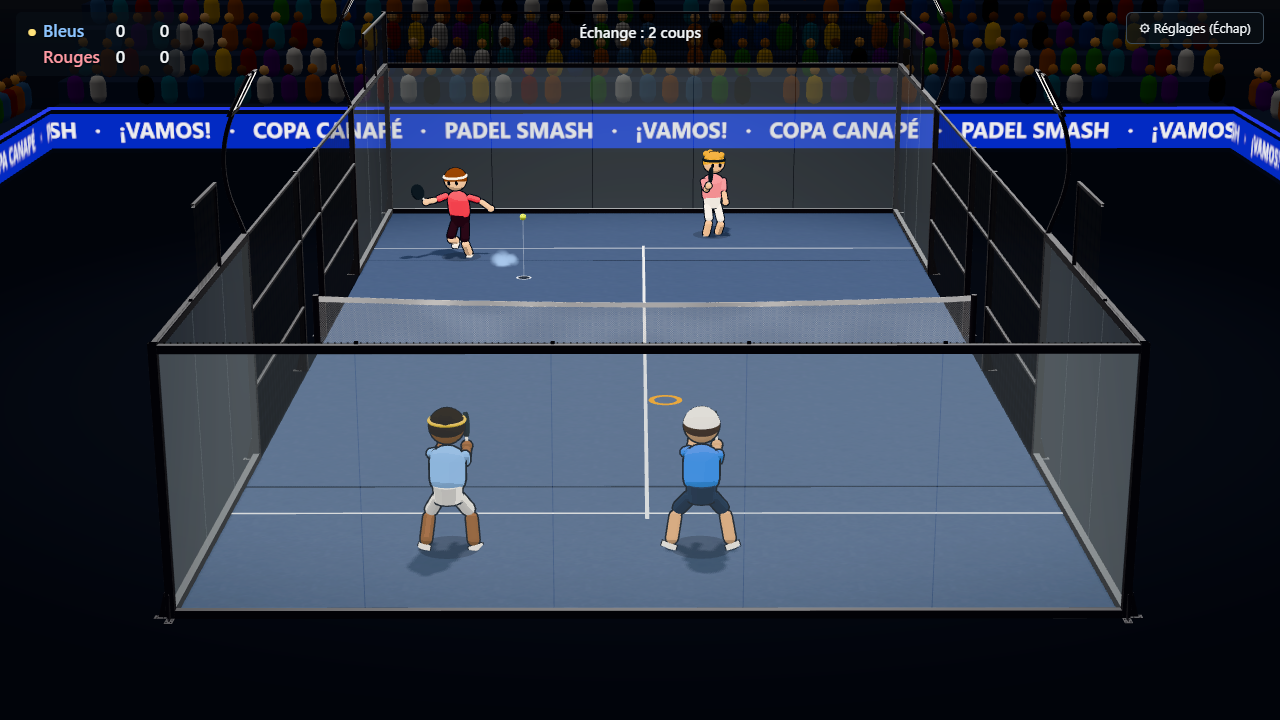
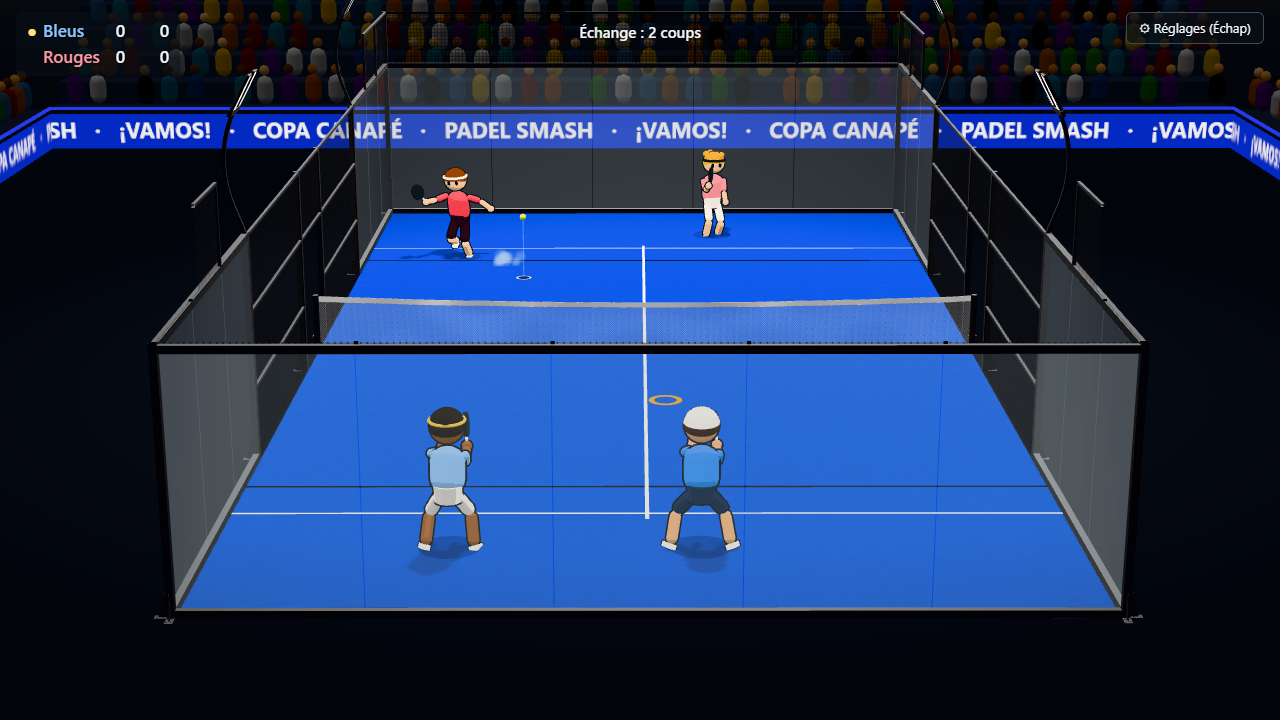
Tapis bleu façon Premier Padel : moquette bleu vif veloutée, grain de près, lignes blanches éclairées
- Étape V3 du plan de polish visuel (research/rendu/POLISH_VISUEL.md), d'après la surface officielle
  (Mondo Premier Supercourt X3) et une capture TV de Premier Padel.
- Le sol devient un matériau physique bleu vif : velours (sheen) plus clair vu de biais, grain de la
  texture du modèle gardé en clarté seule, grains de silice de près, presque pas de reflet spéculaire.
- Lignes en matière éclairée blanche, qui reçoivent les ombres sans en porter.
- ?gazon=0 garde le sol de V2.

Changed region(s): [[0.125, 0.275, 0.875, 0.8556]]

diff --git a/src/render/turf.ts b/src/render/turf.ts
@@ -1,0 +1,87 @@
+import * as THREE from 'three';
+
+/**
+ * Matière du terrain en rendu soigné (`research/rendu/POLISH_VISUEL.md`, étape V3), d'après la surface officielle
+ * de Premier Padel (Premier Supercourt X3 de Mondo) : fibres texturées, peu de sable visible, d'où l'aspect d'une
+ * moquette veloutée d'un bleu vif et uniforme, un peu plus claire vue de biais (le fond du terrain à la télé).
+ * - couleur : le bleu vif du circuit, le grain de la texture du modèle ne gardant que ses nuances de clarté ;
+ * - velours : le « sheen » des matériaux physiques, fait pour les tissus, éclaircit les fibres en vue rasante.
+ */
+
+/** Bleu du tapis (albédo). [à calibrer] */
+const CARPET_COLOR = 0x00349c;
+/** Part du grain de la texture gardée (0 = uni, 1 = tel quel) : de près, les fibres ; de loin, un bleu uni. */
+const GRAIN = 1.1;
+/** Clarté moyenne (linéaire) de la texture du modèle (`ground_dif.jpg`, moyenne sRGB 49, 70, 103). */
+const TEXTURE_LUMINANCE = 0.06;
+/** Velours : reflet clair des fibres vues de biais. [à calibrer] */
+const SHEEN = 0.7;
+const SHEEN_COLOR = 0x1a66ff;
+const SHEEN_ROUGHNESS = 0.55;
+/** Reflet spéculaire (vernis) : presque rien sur un tissu, sinon un voile blanc grise le bleu en vue rasante. */
+const SPECULAR = 0.15;
+/**
+ * Grains de silice : de près, de petits points clairs entre les fibres (photos de courts) ; ils naissent des grains
+ * les plus clairs de la texture, donc s'effacent avec ses mipmaps au loin, sans scintiller.
+ */
+const SAND_SPECK = 0.45;
+const SAND_COLOR = new THREE.Color(0xd8dde6);
+/** Lignes : bandes de gazon blanc, nettes. */
+const LINE_COLOR = 0xf7f8fb;
+
+/** `?gazon=0` garde le sol de V2, pour comparer. */
+export function turfEnabled(): boolean {
+  return new URLSearchParams(location.search).get('gazon') !== '0';
+}
+
+/** Le tapis : remplace le matériau du sol (formes simples ou modèle), en gardant sa texture pour le grain. */
+function carpet(from: THREE.Material): THREE.MeshPhysicalMaterial {
+  const map = 'map' in from && from.map instanceof THREE.Texture ? from.map : null;
+  const material = new THREE.MeshPhysicalMaterial({
+    name: 'tapis',
+    color: CARPET_COLOR,
+    map,
+    roughness: 0.95,
+    metalness: 0,
+    sheen: SHEEN,
+    sheenColor: SHEEN_COLOR,
+    sheenRoughness: SHEEN_ROUGHNESS,
+    specularIntensity: SPECULAR,
+  });
+  if (map) {
+    // La texture du modèle est d'un bleu marine terne : on n'en garde que la clarté relative (le grain), adoucie.
+    material.onBeforeCompile = (shader) => {
+      shader.uniforms.sandColor = { value: SAND_COLOR };
+      shader.fragmentShader = shader.fragmentShader.replace('#include <common>', '#include <common>\nuniform vec3 sandColor;').replace(
+        '#include <map_fragment>',
+        `#ifdef USE_MAP
+          vec4 carpetTexel = texture2D(map, vMapUv);
+          float carpetGrain = dot(carpetTexel.rgb, vec3(0.2126, 0.7152, 0.0722)) / ${TEXTURE_LUMINANCE.toFixed(3)};
+          diffuseColor.rgb *= mix(1.0, carpetGrain, ${GRAIN.toFixed(2)});
+          diffuseColor.rgb = mix(diffuseColor.rgb, sandColor, smoothstep(1.2, 1.6, carpetGrain) * ${SAND_SPECK.toFixed(2)});
+        #endif`,
+      );
+    };
+    material.customProgramCacheKey = () => 'tapis';
+  }
+  return material;
+}
+
+const lineMaterial = new THREE.MeshStandardMaterial({ name: 'ligne', color: LINE_COLOR, roughness: 0.8 });
+
+/**
+ * Habille le terrain (formes simples ou modèle chargé) : le sol (`sol` du modèle, `gazon` des formes) devient le
+ * tapis ; les lignes (`ligne`) passent en matière éclairée, qui reçoit les ombres sans en porter.
+ */
+export function dressCourt(court: THREE.Object3D): void {
+  court.traverse((node) => {
+    if (!(node instanceof THREE.Mesh)) return;
+    if (node.name === 'ligne') {
+      node.material = lineMaterial;
+      node.userData.flat = true;
+      return;
+    }
+    const material = node.material as THREE.Material;
+    if (material.name === 'sol' || (node.name === 'gazon' && material.name !== 'tapis')) node.material = carpet(material);
+  });
+}

diff --git a/src/render/duelScene.ts b/src/render/duelScene.ts
@@ -11,6 +11,7 @@ import { stepCrowdReactions } from '../audio/recipes';
 import { CHARACTERS, createCharacter, type CharacterRig } from './character';
 import { applyLook, enableShadows, exactColor, renderLook, setShadows } from './look';
 import { loadModel, modelsEnabled } from './models';
+import { dressCourt, turfEnabled } from './turf';
 import type { RenderInfo } from '../ui/perfMeter';
 import { bodyYawTarget, computePose, lowFamily, overheadFamily, plansHighShot, STRIDE, swingSide, type SwingFamily } from './pose';
 
@@ -336,6 +337,9 @@ export function createDuelView(canvas: HTMLCanvasElement, duel: Duel): DuelView 
 
   const court = createCourt();
   scene.add(court.object);
+  // Rendu soigné : tapis bleu façon Premier Padel, lignes blanches (avant le découpage de la vitre proche, qui touche aux matériaux).
+  const turf = soigne && turfEnabled();
+  if (turf) dressCourt(court.object);
   clipNearWall(court.object);
   if (shadows) setShadows(court.object, true);
   const ball = createBallView();
@@ -391,6 +395,7 @@ export function createDuelView(canvas: HTMLCanvasElement, duel: Duel): DuelView 
     void Promise.all([loadModel('court'), loadModel('ball')]).then(([courtModel, ballModel]) => {
       if (courtModel) {
         court.setModel(courtModel, false);
+        if (turf) dressCourt(court.object);
         clipNearWall(court.object);
         if (shadows) setShadows(court.object, true);
       }

diff --git a/src/render/look.ts b/src/render/look.ts
@@ -86,7 +86,8 @@ export function setShadows(object: THREE.Object3D, receive: boolean): void {
     if (!(node instanceof THREE.Mesh)) return;
     const material: THREE.Material = Array.isArray(node.material) ? node.material[0] : node.material;
     const opaque = !material.transparent && material.side !== THREE.BackSide;
-    node.castShadow = opaque && !(material instanceof THREE.MeshBasicMaterial);
+    // Objets plats posés au sol (lignes) : ils reçoivent l'ombre sans en porter.
+    node.castShadow = opaque && !(material instanceof THREE.MeshBasicMaterial) && node.userData.flat !== true;
     node.receiveShadow = receive && opaque;
   });
 }

diff --git a/src/render/court.ts b/src/render/court.ts
@@ -86,6 +86,7 @@ function createGround(shapes: THREE.Group, kept: THREE.Group): void {
     new THREE.MeshLambertMaterial({ color: 0x2f6fb5 }),
   );
   turf.rotation.x = -Math.PI / 2;
+  turf.name = 'gazon';
   shapes.add(turf);
 
   const lineMaterial = new THREE.MeshBasicMaterial({ color: 0xffffff });
@@ -93,6 +94,7 @@ function createGround(shapes: THREE.Group, kept: THREE.Group): void {
     const line = new THREE.Mesh(new THREE.PlaneGeometry(sizeX, sizeZ), lineMaterial);
     line.rotation.x = -Math.PI / 2;
     line.position.set(x, 0.004, z);
+    line.name = 'ligne';
     kept.add(line);
   };
   for (const side of [-1, 1]) {

diff --git a/research/rendu/POLISH_VISUEL.md b/research/rendu/POLISH_VISUEL.md
@@ -239,6 +239,29 @@ npx playwright test tests/e2e/rendu.spec.ts
 
 **V2 validé en jeu par Xavier** (comparé à `?ombres=0`). Suite : V3 (matière du sol).
 
+**V3 — matière du sol : tapis façon Premier Padel** (18/10/2026, non commité ; `src/render/turf.ts`) :
+- Référence : la surface officielle de Premier Padel et de la FIP est le **Premier Supercourt X3 de Mondo**,
+  trois monofilaments texturés sur sable de silice ([Mondo](https://www.mondoworldwide.com/na/en/sport/padel/)).
+  Les fibres texturées tiennent debout avec peu de sable : à la télé, une moquette d'un bleu vif uniforme, un peu
+  plus claire au fond (vue de biais) ; de près, des fibres bleues et de fins grains de silice clairs.
+- **Premier essai abandonné** : gazon chargé de sable avec usure, lés et sable contre les vitres. Jugé par Xavier
+  trop « club » et pas assez Premier Padel.
+- Tapis : `MeshPhysicalMaterial` bleu vif (`CARPET_COLOR` 0x00349c) qui remplace le sol ; le grain de la texture
+  du modèle ne garde que ses nuances de clarté ; velours par le `sheen` des matériaux physiques (fait pour les
+  tissus), qui éclaircit le fond du terrain ; reflet spéculaire presque nul (un tissu n'a pas de vernis) ; grains de
+  silice tirés des grains les plus clairs de la texture, donc lissés au loin par les mipmaps, sans scintiller.
+- Piège trouvé : la courbe de tons Neutral désature les couleurs très lumineuses ; un albédo bleu trop clair
+  virait au lavande. D'où un albédo plus sombre qu'on ne l'imagine.
+- Mesuré contre une capture TV de Premier Padel (Milan P1, `reference-premier-padel.png`, gardée en local : image de retransmission, pas à nous) : sol proche
+  (40, 99, 198) contre (6, 94, 190), fond (15, 91, 233) contre (7, 112, 225).
+- Lignes : `MeshStandardMaterial` blanc net (0xf7f8fb), éclairées, qui reçoivent les ombres sans en porter.
+- Lisibilité (en gris) : sol plus sombre qu'en V2 (94 contre 114), donc balle, lignes et joueurs ressortent mieux ;
+  maillot bleu à 132 sur ce sol. À surveiller en jeu : équipe bleue sur terrain bleu.
+- Coût : nul mesurable (60 i/s, mêmes appels de dessin).
+- `?gazon=0` garde le sol de V2 ; `comparaison-v3-*.png` : V2 à gauche, V3 à droite.
+
+**V3 validé en jeu par Xavier** (comparé à `?gazon=0`). Suite : V4 (personnages).
+
 ## 5. Risques
 
 - **Lisibilité** : le principal risque. Halo, occlusion ou étalonnage qui noient la balle jaune

diff --git a/STATUS.md b/STATUS.md
@@ -873,3 +873,10 @@ e2e 29/30 en un seul worker (le 30e : fichier de capture verrouillé par Windows
 Le projecteur du terrain porte les ombres des joueurs, raquettes, poteaux et du filet (`?ombres=0` pour les
 couper ; absentes en `?rendu=simple` et en rendu logiciel). 60 i/s sur RTX 4070. Typecheck OK, 537 tests unitaires
 OK, e2e 29/30 en un seul worker (le 30e : capture PNG verrouillée par Windows). **Validé par Xavier en jeu.**
+
+## Polish visuel V3 : tapis bleu façon Premier Padel (18/10/2026, non commité)
+
+Le sol devient une moquette d'un bleu vif uniforme, d'après la surface officielle (Mondo Supercourt X3) et une
+capture TV de Premier Padel : velours plus clair au fond, grain et grains de silice de près, lignes blanc net
+(`?gazon=0` pour comparer). Le premier essai, gazon sablé et usé, a été abandonné. Typecheck OK, 537 tests
+unitaires OK, e2e 30/30 en un seul worker. **Validé par Xavier en jeu.**
